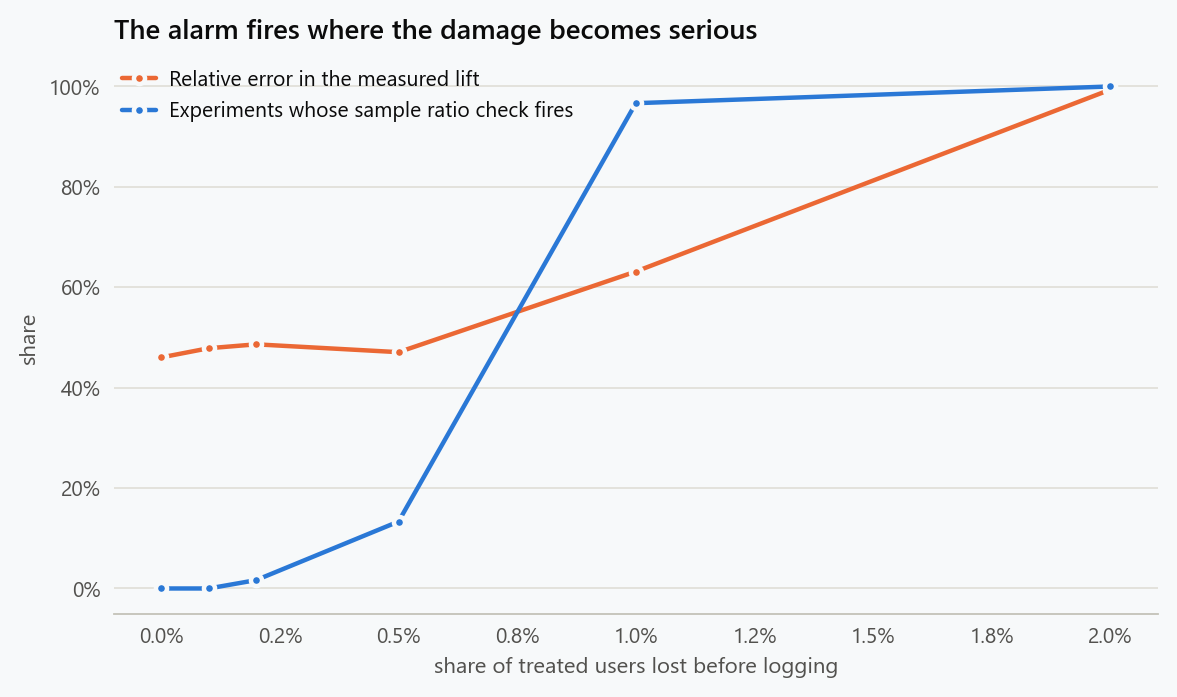
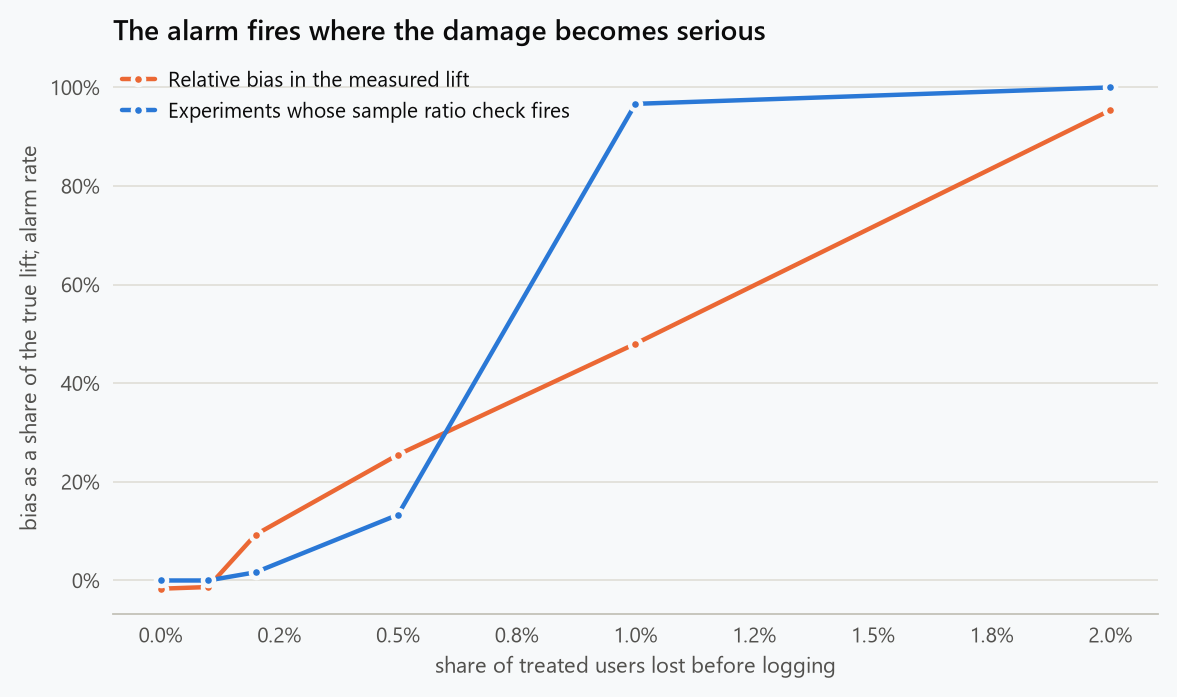
Sample ratio mismatch: plot the bias the alt text describes

diff --git a/_posts/statistics/2026-09-01-sample_ratio_mismatch_experiment_diagnostic.md b/_posts/statistics/2026-09-01-sample_ratio_mismatch_experiment_diagnostic.md
@@ -149,7 +149,7 @@ Two things stand out. The bias is large relative to the effect long before it is
 
 The 0.2 percent row is the uncomfortable one. The bias is already a tenth of the effect and the check almost never fires. Nothing in the data reveals it; the defence there is not the statistical test but the engineering practice of logging assignment at the moment of randomisation rather than at the moment of exposure.
 
-![Relative error in the measured lift and the share of experiments whose sample ratio check fires, against the share of treated users lost before logging. The check is nearly silent while the error is a tenth of the effect and fires reliably once the error approaches the effect itself.](/assets/images/figures/srm_detection_and_bias.png){: width="1152" height="672" loading="lazy"}
+![Relative bias in the measured lift, averaged over experiments, and the share of experiments whose sample ratio check fires, against the share of treated users lost before logging. The check is nearly silent while the bias is a tenth of the effect or less and fires reliably once the bias is about half the effect.](/assets/images/figures/srm_detection_and_bias.png){: width="1152" height="672" loading="lazy"}
 
 ## Why the Result Cannot Be Rescued
 
